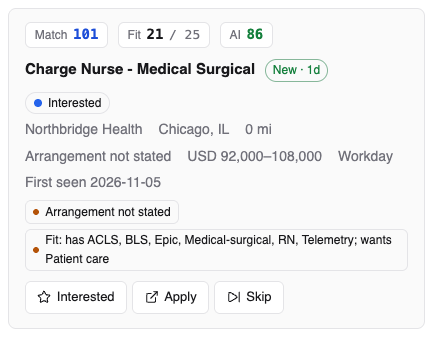
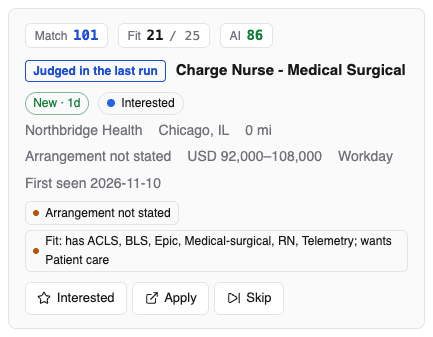
feat: Job posts mark what the AI judged, and in which run (see docs/changes/judged-marks.md)

diff --git a/jobdork/data/dashboard.html b/jobdork/data/dashboard.html
@@ -509,6 +509,10 @@ dialog{overflow:visible}
   font:inherit;font-size:.875rem}
 .copies{font-size:.75rem;padding:.05rem .45rem;border-radius:4px;
   border:1px solid var(--line);color:var(--muted)}
+.judged{font-size:.75rem;padding:.05rem .45rem;border-radius:4px;white-space:nowrap;
+  border:1px solid var(--line);color:var(--muted)}
+.judged.last{color:var(--accent);border-color:var(--accent);font-weight:600}
+.toast .go{margin-left:.5rem}
 .alsoat{width:100%;display:flex;flex-wrap:wrap;gap:.35rem .6rem;align-items:center;
   margin-top:.45rem;font-size:.8125rem}
 .alsoat a{display:inline-flex;gap:.35rem;align-items:center;padding:.1rem .5rem;
@@ -993,6 +997,8 @@ main > #view-setup.welcome{max-width:46rem;margin-top:3.5rem}
         <option value="score:asc">Match: low to high</option>
         <option value="fit:desc">Fit: high to low</option>
         <option value="fit:asc">Fit: low to high</option>
+        <option value="ai_score:desc">AI score: high to low</option>
+        <option value="ai_score:asc">AI score: low to high</option>
         <option value="unscored">Unscored only</option>
       </select>
       <input type="search" id="q" placeholder="Search" aria-label="Search job posts by title or company">
@@ -1013,6 +1019,13 @@ main > #view-setup.welcome{max-width:46rem;margin-top:3.5rem}
         <option value="">Posted by anyone</option>
         <option value="employer">Posted by the employer</option>
         <option value="agency">Posted by a recruiter</option>
+      </select>
+      <select id="f-ai" aria-label="Judged by the AI"
+        title="The AI judges your best job posts that it has not judged yet, so the ones it just judged are often further down the list.">
+        <option value="">Judged by the AI or not</option>
+        <option value="judged">AI-judged</option>
+        <option value="last">Judged in the last run</option>
+        <option value="none">Not judged yet</option>
       </select>
       <input type="search" id="f-place" placeholder="Place, e.g. Texas" style="width:11rem"
         aria-label="Place: a city, state or country in the location">
@@ -2315,6 +2328,13 @@ function passesFilters(r) {
   // Dropped posts carry no poster: the filter leaves them be.
   const by = $('f-poster').value;
   if (by && r.poster && (r.poster.agency ? 'agency' : 'employer') !== by) return false;
+  // Dropped posts were never judged: the AI filter leaves them be too.
+  const judged = $('f-ai').value;
+  if (judged && r.ai_at !== undefined) {
+    if (judged === 'judged' && !r.ai_at) return false;
+    if (judged === 'none' && r.ai_at) return false;
+    if (judged === 'last' && !judgedLast(r)) return false;
+  }
   if (mode === 'none' ? ['remote', 'hybrid', 'office'].includes(work) : mode && work !== mode) return false;
   if (place && !(r.location || '').toLowerCase().includes(place)) return false;
   if (dist != null && work !== 'remote' && (r.dist == null || r.dist > dist)) return false;
@@ -2325,12 +2345,12 @@ function passesFilters(r) {
 }
 
 function filtersOn() {
-  return !!($('f-mode').value || $('f-poster').value || $('f-place').value.trim() || $('f-dist').value ||
+  return !!($('f-mode').value || $('f-poster').value || $('f-ai').value || $('f-place').value.trim() || $('f-dist').value ||
             $('f-pay').value || $('f-paid').checked || (!$('f-rule').hidden && $('f-rule').value));
 }
 
 $('f-clear').onclick = () => {
-  for (const id of ['f-mode', 'f-poster', 'f-place', 'f-dist', 'f-pay', 'f-rule']) $(id).value = '';
+  for (const id of ['f-mode', 'f-poster', 'f-ai', 'f-place', 'f-dist', 'f-pay', 'f-rule']) $(id).value = '';
   $('f-paid').checked = false; drawRoles();
 };
 
@@ -2487,6 +2507,23 @@ function ageTag(a) {
   return `<span class="age ${esc(a.tier)}" title="${esc(cap(a.text))}">${esc(word ? word + ' · ' + n : n)}</span>`;
 }
 
+// Whether the AI judged this post in the run that judged most recently
+// (api.last_judging): "AI: judge top job posts", or the judging after a scan.
+function judgedLast(r) {
+  const run = rolesMeta && rolesMeta.last_judging;
+  return !!(run && r.ai_at && r.ai_at >= run.from && r.ai_at <= run.to);
+}
+
+// When the AI judged it, beside its AI badge. It judges the best posts not
+// yet judged, so the ones it just judged are often well down the list, and
+// nothing told them from the ones judged before (2026-11-10).
+function judgedTag(r) {
+  if (!r.ai_at) return '';
+  const last = judgedLast(r);
+  return `<span class="judged${last ? ' last' : ''}" title="The AI judged this post ${esc(shortDay(r.ai_at))}${
+    last ? ', in its last run' : ''}">${last ? 'Judged in the last run' : 'Judged ' + esc(shortDay(r.ai_at))}</span>`;
+}
+
 function card(r) {
   const colour = COLOURS[r.status] || '#6b7280';
   const meta = [r.company, r.location, r.distance, cap(r.work_mode), cap(r.salary),
@@ -2503,6 +2540,7 @@ function card(r) {
       ${matchTag(r.score, r.parts)}
       ${fitTag(r.fit, r.parts)}
       ${aiTag(r.ai)}
+      ${judgedTag(r)}
       <span class="title" onclick="openRole('${r.uid}')">${esc(r.title)}</span>
       ${ageTag(r.age)}
       ${recrTag(r.poster)}
@@ -2569,7 +2607,7 @@ $('scope').onchange = loadRoles; $('status').onchange = loadRoles;
 $('q').oninput = () => drawRoles();
 $('posted').onchange = () => drawRoles();
 $('sort').onchange = () => drawRoles();
-for (const id of ['f-mode', 'f-poster', 'f-rule', 'f-paid']) $(id).onchange = () => drawRoles();
+for (const id of ['f-mode', 'f-poster', 'f-ai', 'f-rule', 'f-paid']) $(id).onchange = () => drawRoles();
 for (const id of ['f-place', 'f-dist', 'f-pay']) $(id).oninput = () => drawRoles();
 
 async function saveAdvert(uid) {
@@ -4533,6 +4571,24 @@ function table(cols, rows, empty, key) {
   }</tbody></table></div>${pager}`;
 }
 
+// The AI judging runs seen running, by id. When one ends, Job posts is
+// reloaded and a toast offers to show the posts it judged (judgedLast).
+let judgingSeen = new Set();
+async function judgingEnded(running) {
+  const now = new Set(running.filter(j => j.job === 'AI judging').map(j => j.id));
+  const ended = [...judgingSeen].some(id => !now.has(id));
+  judgingSeen = now;
+  if (!ended) return;
+  await loadRoles({offer: false});
+  const run = rolesMeta && rolesMeta.last_judging;
+  if (!run || !run.judged) return;
+  toast(`The AI judged ${run.judged} job ${run.judged === 1 ? 'post' : 'posts'}`, 'ok', {
+    label: 'Show them', run: () => {
+      $('scope').value = 'open'; $('f-ai').value = 'last'; $('sort').value = 'ai_score:desc';
+      document.querySelector('nav button[data-view="roles"]').click(); loadRoles({offer: false});
+    }});
+}
+
 const LEVEL_CLASS = {error: 'bad', warning: 'warn'};
 async function pollActivity() {
   clearTimeout(actTimer);
@@ -4541,6 +4597,7 @@ async function pollActivity() {
     const r = await api('/api/activity' + (actPick ? `?id=${actPick}` : ''));
     if (r.ok) {
       const d = await r.json();
+      judgingEnded(d.running);
       $('act-dot').hidden = !d.running.length;
       $('act-dot').classList.toggle('live', d.running.length > 0);
       if (visible) drawActivity(d);
@@ -5763,15 +5820,19 @@ async function runTest() {
 const MODE_ICON = {remote: 'house', hybrid: 'arrow-left-right', office: 'building-2'};
 const svgIcon = name => `<svg viewBox="0 0 24 24" aria-hidden="true" fill="none" stroke="currentColor"
   stroke-width="2" stroke-linecap="round" stroke-linejoin="round">${ICONS[name]}</svg>`;
-function toast(text, kind = 'ok') {
+// `action`, if given, is {label, run}: a button in the toast that runs it.
+// A toast with one stays up longer, so there is time to press it.
+function toast(text, kind = 'ok', action = null) {
   if (kind === 'err') pageProblem('warning', `shown to you: ${text}`);
   const t = document.createElement('div');
   t.className = `toast ${kind}`;
   t.innerHTML = `${svgIcon(kind === 'err' ? 'circle-alert' : 'circle-check')}<span>${esc(text)}</span>
+    ${action ? `<button type="button" class="act go">${esc(action.label)}</button>` : ''}
     <button class="x" aria-label="Dismiss">×</button>`;
   t.querySelector('.x').onclick = () => t.remove();
+  if (action) t.querySelector('.go').onclick = () => { t.remove(); action.run(); };
   $('toasts').append(t);
-  setTimeout(() => t.remove(), kind === 'err' ? 9000 : 3500);
+  setTimeout(() => t.remove(), kind === 'err' ? 9000 : action ? 12000 : 3500);
 }
 
 // What each list is called on the page, and how one of its rows is named.

diff --git a/tests/test_serve.py b/tests/test_serve.py
@@ -26,6 +26,7 @@ sys.path.insert(0, str(Path(__file__).resolve().parent.parent))
 
 from jobdork.core.config import Config, Locations, Salary
 from jobdork.db.store import Role, Store
+from jobdork.web import api as api_mod
 from jobdork.web import serve as serve_mod
 from jobdork.web.live import Runner
 from jobdork.web.session import new_session
@@ -271,6 +272,44 @@ def test_posts_past_the_age_limit_are_hidden_until_asked_for():
         d = json.loads(run.get("/api/roles?scope=open&older=1")[1])
         assert len(d["roles"]) == 3 and d["older"] == 0
     _with_server(check)
+
+
+def test_job_posts_mark_what_the_ai_judged_and_in_which_run():
+    """2026-11-10: "AI: judge top job posts" judged posts further down the
+    list, and nothing told them from the ones judged before."""
+    def check(run):
+        def post(name, at=None, score=None):
+            role = Role(platform="workable", title="Software Engineer", company=name,
+                        url=f"https://x.test/{name}", location_raw="Chicago, Illinois")
+            store.upsert(role)
+            if at:
+                store.set_judgement(role.uid, {"score": score, "verdict": "strong",
+                                               "summary": "Fits.", "at": at})
+        with Store(run.cfg.db_path) as store:
+            post("before", "2026-11-01T09:00:00", 40)
+            post("run_a", "2026-11-09T11:23:30", 85)
+            post("run_b", "2026-11-09T11:24:10", 60)
+            post("never")
+            store.conn.execute(
+                "INSERT INTO activity(job, origin, started_at, heartbeat_at, finished_at, state) "
+                "VALUES('AI judging', 'dashboard', '2026-11-09T11:23:27', "
+                "'2026-11-09T11:25:00', '2026-11-09T11:25:00', 'done')")
+            store.conn.commit()
+            assert api_mod.last_judging(store) == {
+                "from": "2026-11-09T11:23:27", "to": "2026-11-09T11:25:00",
+                "job": "AI judging", "judged": 2}
+        d = json.loads(run.get("/api/roles?scope=open")[1])
+        by = {r["company"]: r for r in d["roles"]}
+        assert by["run_a"]["ai_score"] == 85 and by["run_a"]["ai_at"] == "2026-11-09T11:23:30"
+        assert by["before"]["ai_at"] == "2026-11-01T09:00:00"
+        assert by["never"]["ai_score"] is None and by["never"]["ai_at"] == ""
+        assert d["last_judging"]["judged"] == 2 and d["last_judging"]["from"] <= by["run_b"]["ai_at"]
+    _with_server(check)
+
+
+def test_with_nothing_judged_there_is_no_last_run():
+    with tempfile.TemporaryDirectory() as tmp, Store(str(Path(tmp) / "t.db")) as store:
+        assert api_mod.last_judging(store) is None
 
 
 def test_the_page_carries_no_external_request():

diff --git a/jobdork/web/serve.py b/jobdork/web/serve.py
@@ -181,7 +181,11 @@ def _row_to_dict(row, units: str, fresh=None) -> dict:
         "parts": (parts := api_mod.score_parts(row)),
         "age": _age(row, parts, fresh or Freshness()),
         "copies": row["copies"],
-        **api_mod.ai_fields(row),
+        **(ai := api_mod.ai_fields(row)),
+        # For the AI sort and the "AI-judged" filter on Job posts, and the
+        # "Judged <day>" mark beside the AI badge.
+        "ai_score": (ai["ai"] or {}).get("score"),
+        "ai_at": str((ai["ai"] or {}).get("at") or "")[:19],
         "status": row["status"] or "new",
         "title": row["title"] or "",
         "company": row["company"] or "",
@@ -1161,6 +1165,7 @@ def make_handler(cfg_holder: dict, session: Session, runner: Runner, desk=None):
                     include_settled=(scope == "all"),
                 )
                 counts = store.status_counts()
+                judging = api_mod.last_judging(store)
                 units = cfg.locations.units or "mi"
                 posted_by = api_mod.recruiters(store, rows)
                 payload = [{**_row_to_dict(row, units, cfg.freshness), **posted_by[row["uid"]]}
@@ -1193,7 +1198,8 @@ def make_handler(cfg_holder: dict, session: Session, runner: Runner, desk=None):
             settled = sum(counts.get(s, 0) for s in SETTLED_STATUSES)
             self._json(200, {"roles": payload, "counts": counts,
                              "settled": settled, "ghosts": ghosts,
-                             "older": older, "show_days": limit})
+                             "older": older, "show_days": limit,
+                             "last_judging": judging})
 
         def _events(self) -> None:
             """Server-sent events. Held open for the life of the page."""

diff --git a/jobdork/web/api.py b/jobdork/web/api.py
@@ -92,6 +92,33 @@ def ai_fields(row) -> dict:
     }
 
 
+def last_judging(store) -> dict | None:
+    """The run that judged the newest AI verdict: when it started and ended,
+    its name, and how many posts it judged; None before any verdict.
+
+    "AI: judge top job posts" judges the best posts not yet judged, so they
+    are often well down the list, and nothing told them from the ones judged
+    before (2026-11-10). Job posts marks the posts this run judged.
+    """
+    newest = store.conn.execute(
+        "SELECT MAX(json_extract(llm_judgement, '$.at')) FROM roles "
+        "WHERE llm_judgement IS NOT NULL").fetchone()[0]
+    if not newest:
+        return None
+    run = store.conn.execute(
+        "SELECT job, started_at, COALESCE(finished_at, heartbeat_at, started_at) AS ended "
+        "FROM activity WHERE started_at <= ? "
+        "AND COALESCE(finished_at, heartbeat_at, started_at) >= ? "
+        "ORDER BY id DESC LIMIT 1", (newest, newest)).fetchone()
+    # Judged outside a recorded run (an older copy, say): that verdict alone.
+    start, end, job = (run["started_at"], run["ended"], run["job"]) if run \
+        else (newest, newest, "")
+    judged = store.conn.execute(
+        "SELECT COUNT(*) FROM roles WHERE json_extract(llm_judgement, '$.at') "
+        "BETWEEN ? AND ?", (start, end)).fetchone()[0]
+    return {"from": start, "to": end, "job": job, "judged": judged}
+
+
 def score_parts(row) -> list[dict]:
     """How a stored score was reached; empty for a role not screened since v4."""
     try:

diff --git a/jobdork/ai/judging.py b/jobdork/ai/judging.py
@@ -46,9 +46,19 @@ class JudgeReport:
     skipped_thin: int = 0
     model: str = ""
     disagreed: int = 0                 # the second model scored it 20+ apart
+    # "Title, Company" of each post judged, in order: the run's summary names
+    # them, so a run is not only a count (2026-11-10).
+    names: list[str] = field(default_factory=list)
+
+    NAMED = 5                          # named in the summary; the rest counted
 
     def lines(self) -> list[str]:
         out = [f"{self.model}: judged {self.judged}"]
+        if self.names:
+            more = len(self.names) - self.NAMED
+            out.append("; ".join(self.names[:self.NAMED])
+                       + (f"; and {more} more (Job posts, AI-judged: in the last run)"
+                          if more > 0 else ""))
         if self.flagged:
             out.append(f"{self.flagged} with a claim the advert and resume do "
                        "not support")
@@ -142,6 +152,8 @@ def run(cfg, store, limit: int = 0, uid: str = "", force: bool = False,
             telemetry.tick(count="unsupported claims")
         store.set_judgement(row["uid"], verdict)
         report.judged += 1
+        report.names.append(", ".join(x for x in ((row["title"] or "").strip(),
+                                                  (row["company"] or "").strip()) if x))
         telemetry.tick(done=report.judged + len(report.failed),
                        count=verdict["verdict"])
         if progress:

diff --git a/tests/test_ai.py b/tests/test_ai.py
@@ -88,6 +88,19 @@ def test_json_is_found_inside_the_prose_small_models_add():
     assert llm._parse_object('Sure! {"ok": true} Hope that helps') == {"ok": True}
 
 
+def test_a_judging_runs_summary_names_the_posts_it_judged():
+    """2026-11-10: the summary was only a count; now it names the first
+    five posts and counts the rest."""
+    from jobdork.ai.judging import JudgeReport
+
+    one = JudgeReport(judged=2, model="m", names=["Nurse, Northbridge", "Charge Nurse, Lakeview"])
+    assert one.lines()[1] == "Nurse, Northbridge; Charge Nurse, Lakeview"
+    many = JudgeReport(judged=7, model="m", names=[f"Job {i}, Co" for i in range(7)])
+    assert many.lines()[1].startswith("Job 0, Co; Job 1, Co; Job 2, Co; Job 3, Co; Job 4, Co;")
+    assert "and 2 more" in many.lines()[1]
+    assert JudgeReport(model="m").lines() == ["m: judged 0"]
+
+
 def test_a_judgement_is_clamped_and_clipped_before_it_is_stored():
     raw = {"score": 140, "verdict": "AMAZING", "summary": "x" * 900,
            "reasons": ["a"] * 9, "concerns": "not a list"}

diff --git a/docs/changes/judged-marks.md b/docs/changes/judged-marks.md
@@ -1,0 +1,26 @@
+## Added — 2026-11-10 — Job posts mark what the AI judged, and in which run
+
+**AI: judge top job posts** ran and finished, but nothing showed which job
+posts it had judged. It reads your best posts it has not judged yet, so
+they are often well down the list, and their AI badges looked the same as
+the ones from earlier runs. The run's summary gave only a count.
+
+Now:
+
+- Each judged post shows **Judged** and the day beside its AI badge, and
+  **Judged in the last run** when the most recent judging run (the button,
+  or the judging after a scan) read it.
+- Job posts sorts by **AI score** too, and filters **AI-judged**, **Judged
+  in the last run** or **Not judged yet**.
+- When a judging run ends, a message says how many posts it judged, with
+  **Show them**: Job posts, *Judged in the last run*, best AI score first.
+- The run's summary names the first five posts it judged ("Title, Company")
+  and counts the rest.
+
+`/api/roles` gives each post `ai_score` and `ai_at` (when its verdict was
+made), and `last_judging`: the run that made the newest verdict, by its
+start and end in the run history, with how many posts it judged
+(`api.last_judging`). The guide's Job posts and Scores pages say what the
+marks, the sort and the filter mean; their pictures are retaken.
+tests/test_serve.py covers the marks and the last run's window, and
+tests/test_ai.py the summary's names.

diff --git a/guide/docs/job-posts.md b/guide/docs/job-posts.md
@@ -73,12 +73,14 @@ buttons. On a narrower window a post opens in a
   *New since last scan*, *Including settled* (also the rejected, withdrawn,
   skipped and closed), or *Dropped by your filters* (below).
 - **Posted within** 2 days, a week or 3 weeks.
-- **Sort:** by Match or Fit, high to low or low to high; or *Unscored only*.
+- **Sort:** by Match, Fit or AI score, high to low or low to high; or
+  *Unscored only*. Sorted by AI score, the posts the AI judged come first.
 - **Search**: by title or employer.
 
 **Second row**, to narrow the list without changing your settings:
 arrangement (remote, hybrid, on-site, not stated), who posted it (the
-employer or a recruiter), a place ("Texas"), within a distance, pay at least
+employer or a recruiter), whether the AI judged it (*AI-judged*, *Judged in
+the last run*, *Not judged yet*), a place ("Texas"), within a distance, pay at least
 an amount, **Pay stated only**, and **Hide posts older than** (this one is
 saved as a setting; posts you acted on are always shown). **Clear filters**
 resets them.

diff --git a/guide/docs/scores.md b/guide/docs/scores.md
@@ -69,6 +69,15 @@ gives a score out of 100 with a word:
 | 50 to 79 | **Possible** fit |
 | Under 50 | **Weak** fit |
 
+Beside the badge, **Judged** and the day says when the AI read it;
+**Judged in the last run** marks the posts its most recent run judged
+(**AI: judge top job posts**, or the judging after a scan). That run reads
+your best posts it has *not judged yet*, so they are often further down the
+list than the ones it judged before. When the run ends, a message says how
+many it judged, with **Show them**: Job posts, *Judged in the last run*,
+best AI score first. The run's summary on the Dashboard names the first
+five.
+
 Point at it to read why: a summary, the reasons **For** and **Against**,
 and anything it said that is **Not in the advert or resume** (struck out:
 the AI got that wrong, see [the hallucination check](ai.md#the-hallucination-check)).
